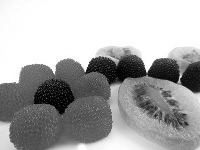
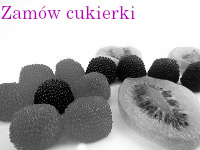
e14-1509-3

Changed region(s): [[0.33, 0.0267, 0.69, 0.1333], [0.0, 0.0267, 0.3, 0.1333]]

diff --git a/e_14_2022_06_01_SG/zamowienie.html b/e_14_2022_06_01_SG/zamowienie.html
@@ -1,0 +1,62 @@
+<!DOCTYPE html>
+<html lang="pl">
+	<head>
+		<meta charset="UTF-8" />
+		<meta name="viewport" content="width=device-width, initial-scale=1.0" />
+		<title>Fabryka cukierkow</title>
+		<link rel="stylesheet" href="styl10.css" />
+	</head>
+	<body>
+		<div class="naglowek">
+            <a href='zamowienie.html'><img src="cukierki1.jpg" style="margin-right: 50px;"></a>
+            <a href='index.html'><img src="cukierki2.png" alt='Nasze logo' style="margin-left: 50px;"></a>
+        </div>
+		<div class="strefazamowien">Strefa zamówień</div>
+		<div class="contentbox">
+			<div class="boxleft">
+				Numer kształtu:
+				<br>
+				<input type="number" id="nrksztaltu">
+				<br>
+				skomponuj swój kolor, podaj RGB:
+				<br>
+				R:<input type="number" id="r">G:<input type="number" id="g">B:<input type="number" id="b">
+				<br>
+				<button onclick="skrypt()">Zamówienie</button>
+				<br>
+				<p id="tresc">Twoje zamówienie</p>
+				<button id="przycisk">Kolor</button>
+			</div>
+			<div class="boxright"></div>
+		</div>
+		<div class="stopka">
+			Autor strony: 11220
+		</div>
+
+		<script>
+			function skrypt(){
+				let nrksztaltu=parseInt(document.getElementById("nrksztaltu").value);
+				let r=parseInt(document.getElementById("r").value);
+				let g=parseInt(document.getElementById("g").value);
+				let b=parseInt(document.getElementById("b").value);
+
+				switch(nrksztaltu){
+					case 1:
+						document.getElementById('tresc').innerHTML="Twoje zamowienie to cukierek cytryna";
+					break;
+					case 2:
+						document.getElementById('tresc').innerHTML="Twoje zamowienie to cukierek liść";
+					break;
+					case 3:
+						document.getElementById('tresc').innerHTML="Twoje zamowienie to cukierek banan";
+					break;
+					default:
+						document.getElementById('tresc').innerHTML="Twoje zamowienie to cukierek inny";
+					break;
+				}
+
+				document.getElementById('przycisk').style.background-color='gb('+r+';'+g+';'+b+');';
+			}
+		</script>
+	</body>
+</html>

diff --git a/e_14_2022_06_01_SG/styl10.css b/e_14_2022_06_01_SG/styl10.css
@@ -4,9 +4,44 @@ body {
 }
 
 .naglowek {
-	height: 100px;
+	height: 170px;
 	background-color: rgb(146, 184, 112);
 	display: flex;
 	justify-content: center;
+	align-items: center;
+	flex-direction: row;
 	color: white;
+	
+}
+
+.strefazamowien, .stopka {
+	height: 80px;
+	background-color: rgb(100, 61, 49);
+	display: flex;
+	padding: 5px 5px 5px 5px;
+	justify-content: center;
+	align-items: center;
+	flex-direction: row;
+	color: white;
+	font-size: 32px;
+	letter-spacing:20px;
+}
+
+.stopka{
+	font-size: small;
+	letter-spacing: normal;
+}
+
+.boxleft, .boxright{
+	height: 450px;
+	background-color: rgb(146, 184, 112);
+	width: 50%;
+}
+
+.boxleft{
+	float: left;
+}
+
+.boxright{
+	float: right;
 }
